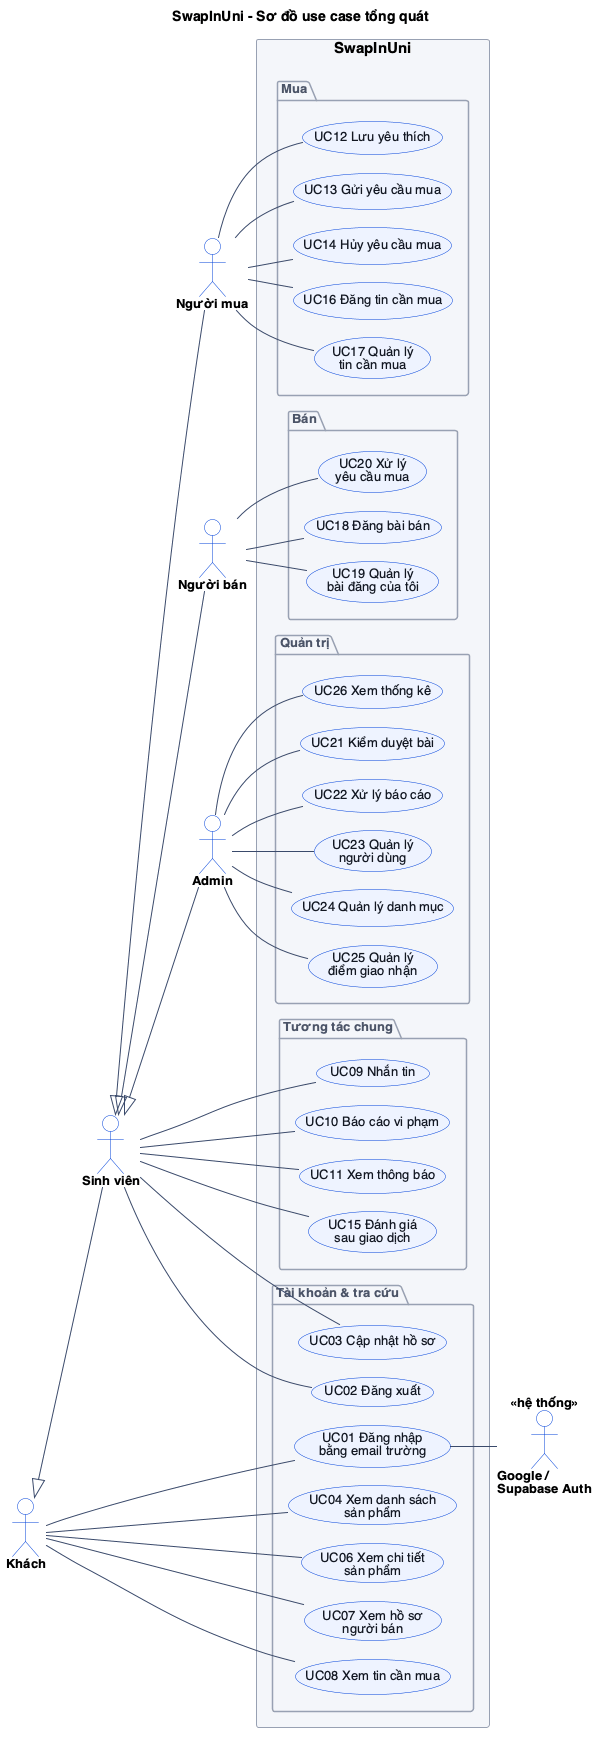
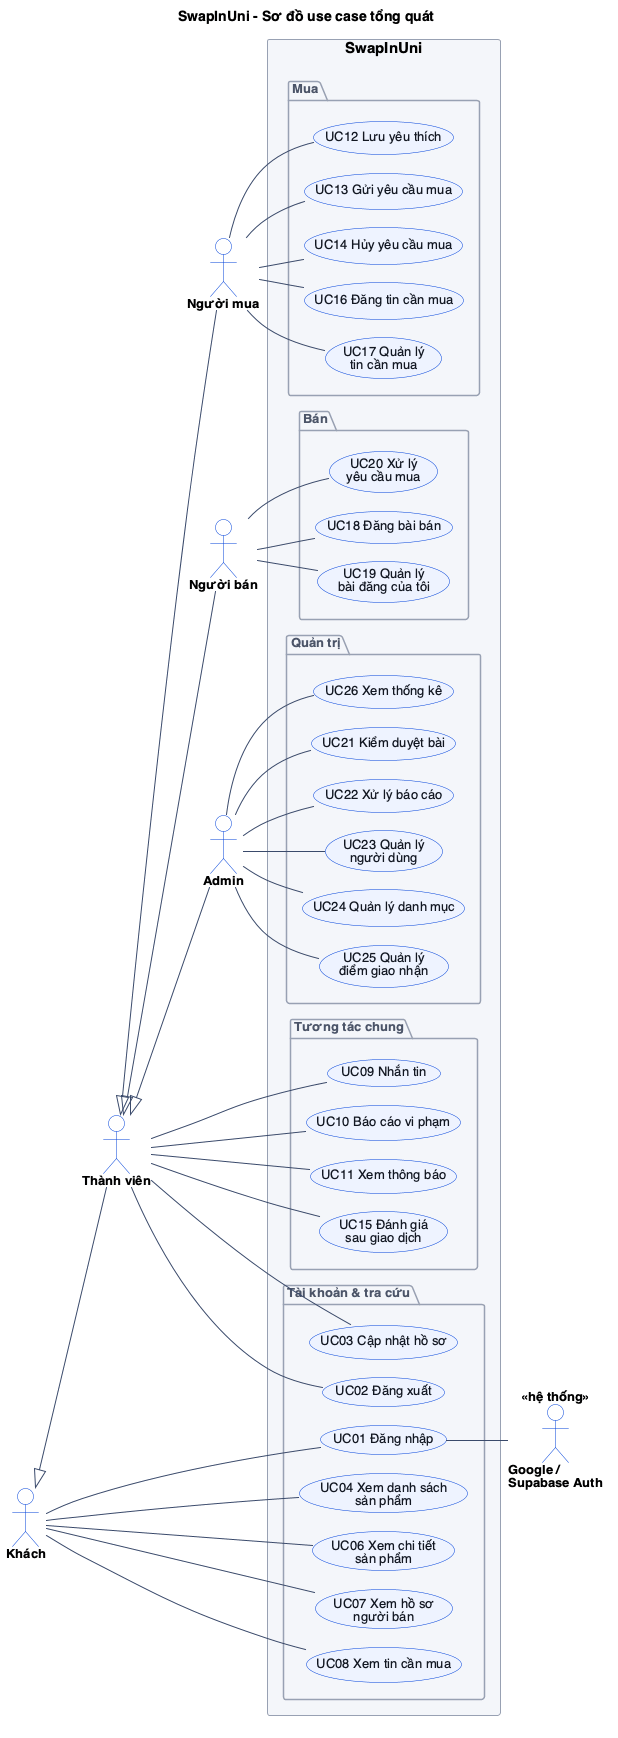
docs: chốt quyết định SCRUM-12, mở đăng ký mọi email kèm huy hiệu UIT
- USE_CASES: actor Thành viên, BR01/BR08, bảng quyết định mục 8
- DECISIONS: chấp nhận 8 ADR, viết lại ADR-005
- DATABASE: thêm profiles.is_uit_verified, bỏ wanted_posts.expires_at
- Diagram uc-00, uc-01 render lại
- Login bỏ chặn domain; /api/me trả isUitVerified

diff --git a/frontend/src/pages/public/Login.tsx b/frontend/src/pages/public/Login.tsx
@@ -7,8 +7,6 @@ import { getSupabase } from '../../lib/supabase'
 
 export const meta = () => noIndex('Đăng nhập')
 
-const SCHOOL_DOMAIN = 'gm.uit.edu.vn'
-
 // Chỉ cho đường dẫn nội bộ, tránh open redirect qua ?next=https://...
 function safeNext(next: string | null) {
   return next && next.startsWith('/') && !next.startsWith('//') ? next : '/'
@@ -29,9 +27,8 @@ export default function Login() {
     if (session) navigate(next, { replace: true })
   }, [session, next, navigate])
 
-  // Trigger handle_new_user từ chối email ngoài trường: Supabase trả lỗi về URL (?error_description=...).
-  const urlError = params.get('error_description')
-  const shownError = error ?? (urlError && (urlError.includes('email') ? `Chỉ chấp nhận email @${SCHOOL_DOMAIN}.` : urlError))
+  // Lỗi đăng nhập Google (huỷ, tài khoản bị khóa...) Supabase trả về URL (?error_description=...).
+  const shownError = error ?? params.get('error_description')
 
   async function signInWithGoogle() {
     setError(undefined)
@@ -39,8 +36,7 @@ export default function Login() {
       provider: 'google',
       options: {
         redirectTo: `${window.location.origin}/login?next=${encodeURIComponent(next)}`,
-        // hd: Google chỉ gợi ý tài khoản thuộc domain trường. Chặn thật nằm ở trigger trong DB.
-        queryParams: { hd: SCHOOL_DOMAIN, prompt: 'select_account' },
+        queryParams: { prompt: 'select_account' },
       },
     })
     if (error) setError(error.message)
@@ -54,11 +50,6 @@ export default function Login() {
     setError(undefined)
     setInfo(undefined)
 
-    if (!email.endsWith(`@${SCHOOL_DOMAIN}`) && !email.endsWith('@uit.edu.vn')) {
-      setError(`Chỉ chấp nhận email @${SCHOOL_DOMAIN}.`)
-      return
-    }
-
     setBusy(true)
     const supabase = getSupabase()
     const { data, error } =
@@ -68,17 +59,17 @@ export default function Login() {
     setBusy(false)
 
     if (error) setError(error.message === 'Invalid login credentials' ? 'Sai email hoặc mật khẩu.' : error.message)
-    else if (mode === 'signup' && !data.session) setInfo('Đã gửi email xác nhận. Mở hộp thư trường để kích hoạt tài khoản.')
+    else if (mode === 'signup' && !data.session) setInfo('Đã gửi email xác nhận. Mở hộp thư để kích hoạt tài khoản.')
   }
 
   return (
     <div className="container auth">
       <div className="auth__card stack">
         <h1>{mode === 'signin' ? 'Đăng nhập' : 'Tạo tài khoản'}</h1>
-        <p className="muted">Dành cho sinh viên UIT, dùng email @{SCHOOL_DOMAIN}.</p>
+        <p className="muted">Dùng email @gm.uit.edu.vn để có huy hiệu “Đã xác thực UIT”.</p>
 
         <button type="button" className="btn btn--lg" onClick={signInWithGoogle}>
-          <GoogleLogo size={20} weight="bold" aria-hidden /> Tiếp tục với Google (email trường)
+          <GoogleLogo size={20} weight="bold" aria-hidden /> Tiếp tục với Google
         </button>
 
         <div className="divider"><span>hoặc</span></div>
@@ -92,7 +83,7 @@ export default function Login() {
           )}
           <label className="field">
             <span>Email</span>
-            <input name="email" type="email" required autoComplete="email" placeholder={`mssv@${SCHOOL_DOMAIN}`} />
+            <input name="email" type="email" required autoComplete="email" placeholder="mssv@gm.uit.edu.vn" />
           </label>
           <label className="field">
             <span>Mật khẩu</span>

diff --git a/frontend/src/lib/types.ts b/frontend/src/lib/types.ts
@@ -8,4 +8,5 @@ export type Me = {
   studentId: string | null
   phone: string | null
   role: 'student' | 'admin'
+  isUitVerified: boolean
 }

diff --git a/backend/Data/Entities/Profiles.cs b/backend/Data/Entities/Profiles.cs
@@ -12,6 +12,8 @@ public class Profiles
     public string? StudentId { get; set; }
     public string? Phone { get; set; }
     public string Role { get; set; } = "student";
+    /// <summary>Email @gm.uit.edu.vn / @uit.edu.vn. Chỉ trigger handle_new_user ghi (ADR-005).</summary>
+    public bool IsUitVerified { get; set; }
     public bool IsActive { get; set; } = true;
     public DateTime CreatedAt { get; set; }
     public DateTime UpdatedAt { get; set; }

diff --git a/backend/Business/Services/ProfileService.cs b/backend/Business/Services/ProfileService.cs
@@ -21,6 +21,6 @@ public class ProfileService : IProfileService
     {
         var p = await _uow.Profiles.GetByIdAsync(_actor.RequireActorId(), ct)
             ?? throw AppException.NotFound("Không tìm thấy hồ sơ.");
-        return new MeDto(p.Id, p.Email, p.FullName, p.AvatarUrl, p.StudentId, p.Phone, p.Role);
+        return new MeDto(p.Id, p.Email, p.FullName, p.AvatarUrl, p.StudentId, p.Phone, p.Role, p.IsUitVerified);
     }
 }

diff --git a/backend/Business/DTOs/ProfileDtos.cs b/backend/Business/DTOs/ProfileDtos.cs
@@ -1,3 +1,3 @@
 namespace Business.DTOs;
 
-public record MeDto(Guid Id, string Email, string FullName, string? AvatarUrl, string? StudentId, string? Phone, string Role);
+public record MeDto(Guid Id, string Email, string FullName, string? AvatarUrl, string? StudentId, string? Phone, string Role, bool IsUitVerified);

diff --git a/docs/DECISIONS.md b/docs/DECISIONS.md
@@ -1,32 +1,34 @@
 # Quyết định thiết kế (ADR)
 
-> Trạng thái: **Đề xuất**, chờ nhóm duyệt. Khi duyệt xong, đổi thành **Chấp nhận**. Nếu bỏ, đổi thành **Bác bỏ** kèm lý do.
+> Nhóm duyệt ngày 2026-10-13 (SCRUM-12): cả 8 ADR **Chấp nhận**, ADR-005 đổi nội dung. Quyết định mới thêm ADR tiếp theo, trạng thái **Đề xuất** cho tới khi nhóm duyệt.
 
-## ADR-001: Dùng lại stack của dự án CRM UIT — *Đề xuất*
+## ADR-001: Dùng lại stack của dự án CRM UIT — *Chấp nhận*
 React Router (SSR) + Ant Design ở frontend; ASP.NET Core N-Tier + EF Core ở backend; Supabase làm Postgres, Auth, Storage, Realtime.
 **Lý do:** đã có người trong nhóm quen; máy đã cài .NET 10 + Node; tái sử dụng được middleware, cấu trúc và quy ước.
 **Đánh đổi:** hai runtime (.NET + Node) nên deploy phức tạp hơn so với chỉ dùng Next.js + Supabase.
 
-## ADR-002: SSR cho trang công khai — *Đề xuất*
+## ADR-002: SSR cho trang công khai — *Chấp nhận*
 Trang danh sách và chi tiết sản phẩm render ở server, có thẻ `og:image`, `og:title`, giá.
 **Lý do:** sinh viên hay share link vào nhóm Zalo/Facebook; preview có ảnh và giá thì hấp dẫn hơn. Trang cần đăng nhập thì render ở client.
 
-## ADR-003: Chat realtime bằng Supabase Realtime, không dùng SignalR — *Đề xuất*
+## ADR-003: Chat realtime bằng Supabase Realtime, không dùng SignalR — *Chấp nhận*
 Gửi tin qua API backend để kiểm tra quyền. Trình duyệt subscribe `postgres_changes` (INSERT trên `messages`), RLS chỉ cho hai bên đọc.
 **Lý do:** ít code, không phải tự quản lý websocket.
 **Đánh đổi:** cần supabase-js ở frontend và phải viết RLS cẩn thận.
 
-## ADR-004: Đăng nhập ở frontend bằng supabase-js, gửi Bearer token — *Đề xuất*
+## ADR-004: Đăng nhập ở frontend bằng supabase-js, gửi Bearer token — *Chấp nhận*
 Khác CRM (ở đó backend giữ cookie HttpOnly). Realtime cần access token trong trình duyệt, nên để supabase-js quản lý phiên. Backend chỉ xác thực JWT qua JWKS.
 
-## ADR-005: Chỉ email trường được đăng ký — *Đề xuất*
-Chặn ở trigger DB `handle_new_user`, không chỉ ở UI. Tham số `hd=gm.uit.edu.vn` của Google chỉ là gợi ý, không chặn được.
+## ADR-005: Mọi email đăng ký được, email trường có huy hiệu UIT — *Chấp nhận*
+Ban đầu đề xuất chỉ cho email trường. Nhóm chọn mở rộng để không chặn người ngoài (bạn bè, cựu sinh viên, giảng viên) nhưng vẫn giữ điểm khác biệt "tin cậy trong trường".
+Trigger `handle_new_user` không từ chối email nào; nó gán `profiles.is_uit_verified = true` khi domain là `gm.uit.edu.vn` hoặc `uit.edu.vn`. Cột này chỉ trigger ghi, người dùng không sửa được qua API.
+**Đánh đổi:** dễ bị tài khoản rác hơn, bù lại bằng kiểm duyệt bài (ADR-006), báo cáo vi phạm và rate limit.
 
-## ADR-006: Mọi bài phải qua kiểm duyệt — *Đề xuất*
+## ADR-006: Mọi bài phải qua kiểm duyệt — *Chấp nhận*
 Bài mới, bài vừa sửa và bài hiện lại sau khi ẩn đều về `pending`, tránh lách kiểm duyệt bằng cách đăng nội dung hợp lệ rồi sửa.
 
-## ADR-007: Bucket ảnh public, upload qua backend — *Đề xuất*
+## ADR-007: Bucket ảnh public, upload qua backend — *Chấp nhận*
 `listing-images` cho đọc công khai để `<img>` và thẻ OG dùng thẳng URL. Upload bằng service role sau khi backend kiểm tra chủ bài, định dạng, kích thước, số ảnh.
 
-## ADR-008: Không xử lý thanh toán — *Đề xuất*
+## ADR-008: Không xử lý thanh toán — *Chấp nhận*
 Giao dịch trực tiếp trong trường; hệ thống chỉ ghi nhận yêu cầu mua và trạng thái. Giảm rủi ro pháp lý và phạm vi đồ án.

diff --git a/docs/TODO.md b/docs/TODO.md
@@ -8,15 +8,14 @@
 - [x] Xác thực JWT Supabase (JWKS ES256, có dự phòng HS256 secret), `RbacMiddleware` nạp role từ `profiles`, `GlobalExceptionMiddleware` (ProblemDetails), `ApiResponse`, `AppException`.
 - [x] `BaseRepository<T>` + `UnitOfWork`; `DotEnv` đọc `backend/.env`; `dotnet-ef` cài dạng local tool.
 - [x] Endpoint mẫu `GET /api/me`.
-- [x] Frontend React Router v8 SSR + Ant Design, layout, trang chủ tạm, đăng nhập Supabase (Google `hd=gm.uit.edu.vn` / email + mật khẩu).
+- [x] Frontend React Router v8 SSR + Ant Design, layout, trang chủ tạm, đăng nhập Supabase (Google / email + mật khẩu).
 - [x] `AuthProvider`, `RequireAuth`, `api()` tự gắn Bearer token, `ClientOnly` cho trang cần đăng nhập, route `/admin` có giới hạn role.
 
 ## Giai đoạn 0 – Thống nhất nhóm (tuần 1)
 
 - [x] Chốt tên dự án: **SwapInUni** (đã đổi trong code và docs).
 - [x] Chốt phạm vi use case, vẽ use case diagram (tổng quát + 4 phân rã, `diagrams/png/`).
-- [ ] Xác nhận các giả định và câu hỏi còn mở ở mục 8 trong [USE_CASES.md](USE_CASES.md).
-- [ ] Duyệt ERD ở [DATABASE.md](DATABASE.md) và các quyết định ở [DECISIONS.md](DECISIONS.md).
+- [x] Chốt giả định và câu hỏi mở (mục 8 [USE_CASES.md](USE_CASES.md)), duyệt ERD và 8 ADR (SCRUM-12).
 - [ ] Chia việc, tạo board (Jira/Trello/GitHub Projects), quy ước branch và PR.
 - [ ] Viết SRS, làm wireframe Figma cho các màn chính.
 - [x] Tạo repo Git và push khung lên (github.com/Thanhdanh0201/swap-in-uni-se100).
@@ -29,7 +28,7 @@
   - Thêm `http://localhost:5174/login` vào Redirect URLs.
   - (Nếu dùng mật khẩu) tắt "Confirm email" khi dev.
 - [ ] Viết entity theo ERD, rồi chạy `dotnet ef migrations add InitialCreate -p Data -s Data -o Migrations`.
-- [ ] Viết migration `SupabaseSetup` (trigger email trường, RLS, publication Realtime, bucket ảnh, seed danh mục; xem DATABASE.md).
+- [ ] Viết migration `SupabaseSetup` (trigger tạo profile + gán huy hiệu UIT, RLS, publication Realtime, bucket ảnh, seed danh mục; xem DATABASE.md).
 - [ ] Chạy `dotnet ef database update`, kiểm tra đăng nhập tạo được `profiles`, gọi `/api/me` thành công.
 - [ ] Tự cấp quyền admin cho thành viên nhóm: `update profiles set role = 'admin' where email = '...'`.
 
@@ -64,7 +63,7 @@
 - [ ] UC10 Báo cáo: form chọn lý do. UC22 admin xử lý: bỏ qua, gỡ bài, khóa tài khoản.
 - [ ] UC23 Quản lý người dùng (khóa/mở khóa, cấp admin). UC24 Quản lý danh mục. UC25 Quản lý điểm giao nhận.
 - [ ] UC15 Đánh giá hai chiều sau giao dịch; UC07 hồ sơ người bán có điểm uy tín.
-- [ ] UC16/17 Tin cần mua (đăng, duyệt chung hàng đợi UC21, sửa, đóng, tự đóng sau 30 ngày); UC08 trang xem tin cần mua.
+- [ ] UC16/17 Tin cần mua (đăng, duyệt chung hàng đợi UC21, sửa, đóng, tối đa 5 tin mở); UC08 trang xem tin cần mua.
 - [ ] UC12 Yêu thích, UC03 Cập nhật hồ sơ.
 - [ ] Rate limit cho API đăng bài, gửi tin, báo cáo.
 

diff --git a/README.md b/README.md
@@ -3,12 +3,12 @@
 > Đồ án SE100.
 
 Nền tảng để sinh viên UIT mua bán và trao đổi đồ cũ ngay trong trường: giáo trình, đồ điện tử, đồ ký túc xá, xe đạp...
-Chỉ tài khoản email trường (`@gm.uit.edu.vn`) được tham gia. Mọi bài đăng đều qua kiểm duyệt. Người mua và người bán nhắn tin trực tiếp để chốt giá và hẹn chỗ giao nhận.
+Ai cũng đăng ký được; tài khoản email trường (`@gm.uit.edu.vn`) có huy hiệu **Đã xác thực UIT** để người mua chọn người bán đáng tin. Mọi bài đăng đều qua kiểm duyệt. Người mua và người bán nhắn tin trực tiếp để chốt giá và hẹn chỗ giao nhận.
 
 ## Vì sao làm dự án này
 
 - Các nhóm Facebook/Zalo "pass đồ" bị trôi bài, khó tìm, không lọc được theo giá hay tình trạng, lại dễ gặp lừa đảo.
-- Người mua và người bán cùng trường nên giao nhận nhanh, không mất phí ship, và dễ tin nhau hơn khi đã xác thực bằng email trường.
+- Người mua và người bán cùng trường nên giao nhận nhanh, không mất phí ship, và dễ tin nhau hơn nhờ huy hiệu xác thực email trường.
 - Đồ cũ được dùng tiếp thay vì bỏ đi.
 
 ## Tổng quan tech stack
@@ -23,7 +23,7 @@ Stack dùng lại từ dự án **CRM UIT** để nhóm khỏi phải học và 
 | ORM | **EF Core** (Code-First) + Npgsql | Schema và migration quản lý bằng C# |
 | Validate | FluentValidation | Kiểm tra dữ liệu đầu vào |
 | Database | **Supabase Postgres** | Lưu dữ liệu chính |
-| Đăng nhập | **Supabase Auth** (Google OAuth với email trường, hoặc email + mật khẩu) | Frontend lấy JWT; backend xác thực JWT qua JWKS |
+| Đăng nhập | **Supabase Auth** (Google OAuth hoặc email + mật khẩu; email trường có huy hiệu UIT) | Frontend lấy JWT; backend xác thực JWT qua JWKS |
 | Ảnh | **Supabase Storage** (bucket `listing-images`) | Upload qua backend, đọc công khai |
 | Chat realtime | **Supabase Realtime** (`postgres_changes`) | Tin nhắn gửi qua API, trình duyệt nhận tin mới tức thì; RLS giới hạn người đọc |
 | Test | xUnit (backend), Vitest + Testing Library (frontend), oxlint | |
@@ -116,7 +116,7 @@ Khung đã chạy được, chưa có tính năng nghiệp vụ nào:
   - 3 unit test mẫu.
 - **Frontend**:
   - SSR chạy được, có layout và trang chủ tạm.
-  - Đăng nhập Supabase (Google kèm `hd=gm.uit.edu.vn`, hoặc email + mật khẩu).
+  - Đăng nhập Supabase (Google hoặc email + mật khẩu).
   - `AuthProvider` và `RequireAuth`; client `api()` tự gắn Bearer token.
   - Các route `/sell`, `/chat`, `/me/listings`, `/admin` đang trỏ về trang "Đang xây dựng".
 

diff --git a/docs/PLAN.md b/docs/PLAN.md
@@ -9,7 +9,7 @@
 
 | Sprint | Thời gian | Mục tiêu | Demo cuối sprint | Mốc nộp |
 |---|---|---|---|---|
-| **S1** | 13/10 – 25/10 | Thiết kế xong, hạ tầng chạy, deploy được bản rỗng | Đăng nhập email trường trên link online, `/api/me` trả về hồ sơ | – |
+| **S1** | 13/10 – 25/10 | Thiết kế xong, hạ tầng chạy, deploy được bản rỗng | Đăng nhập trên link online, email trường có huy hiệu UIT, `/api/me` trả về hồ sơ | – |
 | **S2** | 26/10 – 08/11 | MVP đăng bán: đăng bài, duyệt, xem, tìm | Đăng bài, admin duyệt, người khác tìm thấy | **Báo cáo giữa kỳ** *(giả định ~08/11)* |
 | **S3** | 09/11 – 22/11 | Giao dịch: chat realtime, yêu cầu mua | Hai tài khoản chat realtime, gửi và chấp nhận yêu cầu mua | – |
 | **S4** | 23/11 – 06/12 | An toàn và cộng đồng: báo cáo, đánh giá, tin cần mua, quản trị | Báo cáo → admin gỡ bài/khóa tài khoản; đánh giá sau giao dịch | – |
@@ -45,7 +45,7 @@ Mỗi tính năng làm theo cặp **backend + frontend**: hai bên chốt DTO tr
 | Deploy bản rỗng: backend Docker (Render), frontend Node (Render/Vercel) | TV4 | Deploy sớm để tránh rủi ro cuối kỳ |
 | Kiểm tra đăng nhập end-to-end trên bản deploy | TV3 + TV4 | |
 
-**Xong khi:** đăng nhập bằng email trường trên link online; email ngoài trường bị từ chối; `profiles` có dữ liệu.
+**Xong khi:** đăng nhập trên link online; email trường có `is_uit_verified = true`, Gmail cá nhân thì `false`; `profiles` có dữ liệu.
 
 ### S2 · 26/10 – 08/11 · MVP đăng bán
 

diff --git a/docs/GETTING_STARTED.md b/docs/GETTING_STARTED.md
@@ -41,7 +41,7 @@ Không cần cài `dotnet-ef` global: repo có sẵn bản local trong `backend/
 1. **URL Configuration**:
    - Site URL: `http://localhost:5174`
    - Redirect URLs: thêm `http://localhost:5174/login`
-2. **Google** (nên dùng: email trường là tài khoản Google):
+2. **Google** (email trường `@gm.uit.edu.vn` cũng là tài khoản Google):
    1. Vào [Google Cloud Console](https://console.cloud.google.com) → APIs & Services → Credentials → **Create OAuth client ID** (Web application).
    2. Authorized redirect URI: lấy dòng **Callback URL** hiện trong trang Supabase → Authentication → Providers → Google (dạng `https://<ref>.supabase.co/auth/v1/callback`).
    3. Dán Client ID và Client Secret vào Supabase, rồi bật provider Google.
@@ -102,7 +102,7 @@ Frontend proxy `/api` sang backend (xem `frontend/vite.config.ts`), nên khi dev
 1. Mở http://localhost:5174, bấm **Đăng nhập**, đăng nhập bằng email `@gm.uit.edu.vn`.
 2. Vào Supabase → Table Editor → `profiles`: phải có một dòng mới với email của bạn.
 3. Mở DevTools → Network, tải lại trang: request `GET /api/me` phải trả `200`.
-4. Đăng nhập bằng một Gmail cá nhân: phải bị từ chối (trigger chỉ chấp nhận email trường).
+4. Đăng nhập bằng email trường thì `profiles.is_uit_verified = true`; bằng Gmail cá nhân thì `false`.
 
 ### Cấp quyền admin cho thành viên nhóm
 

diff --git a/docs/DATABASE.md b/docs/DATABASE.md
@@ -38,6 +38,7 @@ erDiagram
         text student_id
         text phone
         text role "student | admin"
+        bool is_uit_verified "trigger gán theo domain email"
         bool is_active
         timestamptz created_at
         timestamptz updated_at
@@ -137,7 +138,6 @@ erDiagram
         text reject_reason
         uuid moderated_by
         timestamptz moderated_at
-        timestamptz expires_at "created_at + 30 ngày"
         timestamptz created_at
         timestamptz updated_at
     }
@@ -178,7 +178,7 @@ erDiagram
 
 1. `profiles.id` khóa ngoại tới `auth.users(id) ON DELETE CASCADE`.
 2. Trigger `on_auth_user_created` trên `auth.users`:
-   - Từ chối email ngoài `gm.uit.edu.vn` / `uit.edu.vn`.
+   - Không từ chối email nào; gán `is_uit_verified = true` nếu domain là `gm.uit.edu.vn` / `uit.edu.vn` (ADR-005).
    - Tự tạo `profiles` (lấy `full_name`, `avatar_url` từ metadata Google).
 3. `ENABLE ROW LEVEL SECURITY` cho **mọi** bảng: không có policy thì trình duyệt không đọc/ghi được qua anon key.
 4. Chỉ mở policy `SELECT` cho bảng frontend nghe Realtime:
